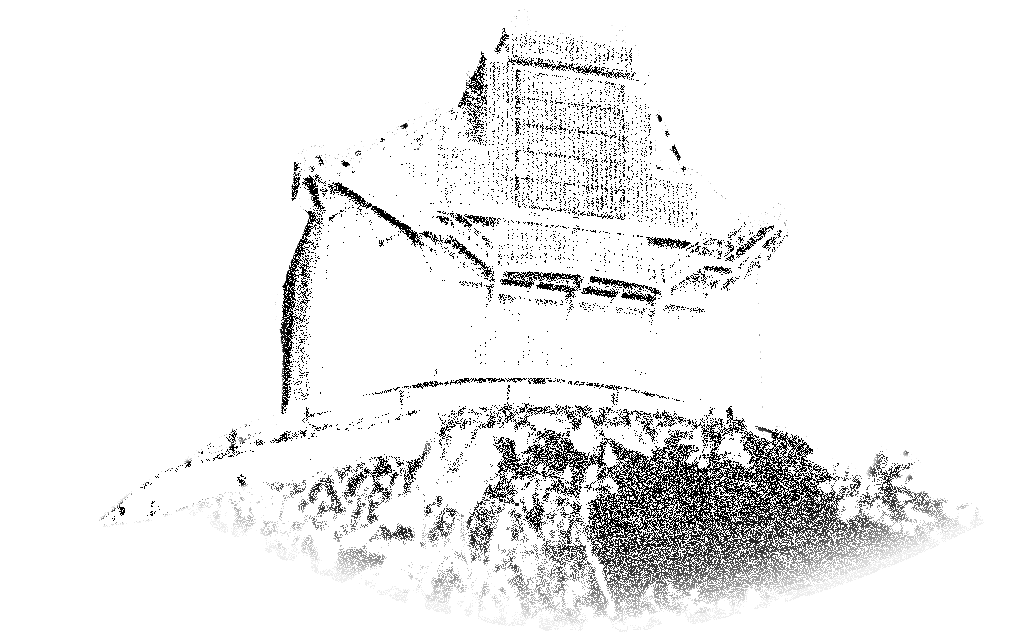
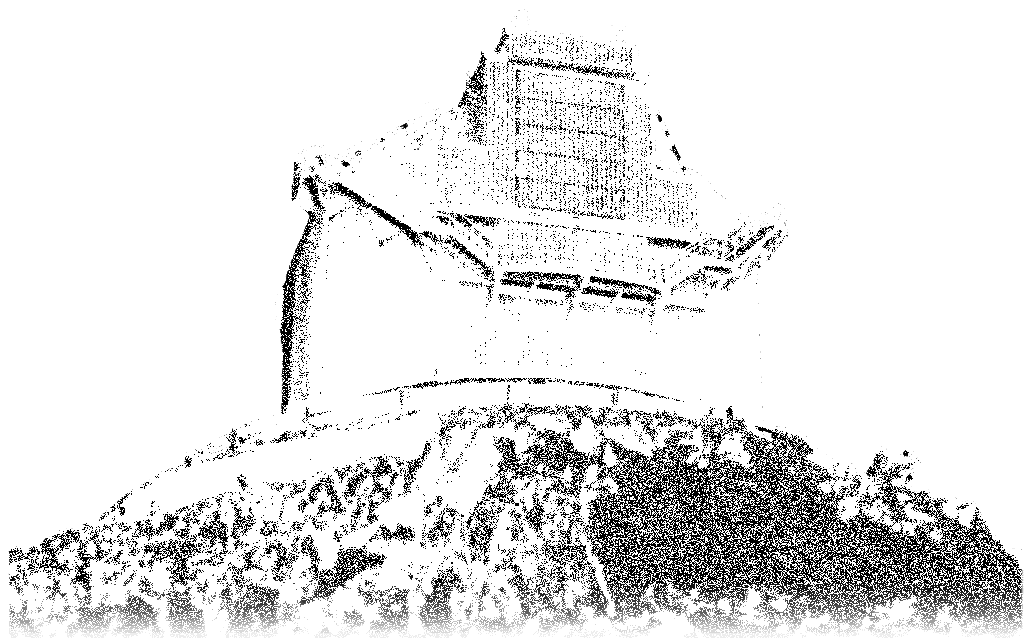
fix(landing): La Silla's rock crown is whole under the building
The plate's cutout faded the rock away in an arch that rose toward the sides, so the rock under the concrete apron on the left was gone and the building hung over nothing. The plate is re-exported from the photograph (astrolabe-site da66af6) with the crown running off both sides and fading only along its foot, and stands 50 units higher so the fade ends above the credit line. The shader's hole-closing pass from 8b0679b6ed7 goes: the cutout no longer has the holes it papered over.

Changed region(s): [[0.0, 0.7143, 1.0, 0.9938]]

diff --git a/apps/landing/src/scripts/plate.js b/apps/landing/src/scripts/plate.js
@@ -97,21 +97,11 @@ import Twilight from "./twilight.js";
       // The olive plate, off register: a pixel and a half down and one to the right.
       vec2 shift = vec2(-1.0, -1.5) * u_dpr / u_res;
       vec4 g2 = texture2D(u_geo, uv + shift);
-      // At night the print closes the small holes in the ground's cutout, which would read as blotches.
-      float fill = g.a;
-      if (u_body.a > 0.0) {
-        vec2 t = 7.0 / u_size;
-        float near = texture2D(u_geo, uv + vec2(t.x, 0.0)).a + texture2D(u_geo, uv - vec2(t.x, 0.0)).a
-          + texture2D(u_geo, uv + vec2(0.0, t.y)).a + texture2D(u_geo, uv - vec2(0.0, t.y)).a
-          + texture2D(u_geo, uv + 2.0 * t).a + texture2D(u_geo, uv - 2.0 * t).a
-          + texture2D(u_geo, uv + vec2(2.0 * t.x, -2.0 * t.y)).a + texture2D(u_geo, uv - vec2(2.0 * t.x, -2.0 * t.y)).a;
-        fill = max(g.a, smoothstep(0.3, 0.65, (near + g.a) / 9.0));
-      }
-      if (fill < 0.004 && g2.a < 0.004) {
+      if (g.a < 0.004 && g2.a < 0.004) {
         gl_FragColor = vec4(0.0);
         return;
       }
-      vec3 n = g.a < 0.004 ? vec3(0.0, 0.0, 1.0) : normalOf(g); // a closed hole has no normal of its own
+      vec3 n = normalOf(g);
       vec3 tone = texture2D(u_tone, uv).rgb;
 
       // The sun: Lambert, with the shadows the building casts on itself.
@@ -187,11 +177,11 @@ import Twilight from "./twilight.js";
         }
       }
       float k = 1.0 / (u_sub * u_sub);
-      float aDark = inkDark * k * u_alpha.x * fill;
-      float aLight = inkLight * k * u_alpha.y * fill;
+      float aDark = inkDark * k * u_alpha.x * g.a;
+      float aLight = inkLight * k * u_alpha.y * g.a;
       float aOlive = oliveCover * k * u_alpha.z * g2.a * (1.0 - aDark - aLight);
       vec4 grain = vec4(u_dark * aDark + u_ivory * aLight + u_olive * aOlive, aDark + aLight + aOlive);
-      gl_FragColor = grain + u_body * fill * (1.0 - moon) * (1.0 - grain.a);
+      gl_FragColor = grain + u_body * g.a * (1.0 - moon) * (1.0 - grain.a);
 
       // The eyepiece: inside the aperture the photograph in continuous tone. Its edge is decided grain
       // by grain over about a CSS px, so it is as crisp as the print and has the print's tooth.
